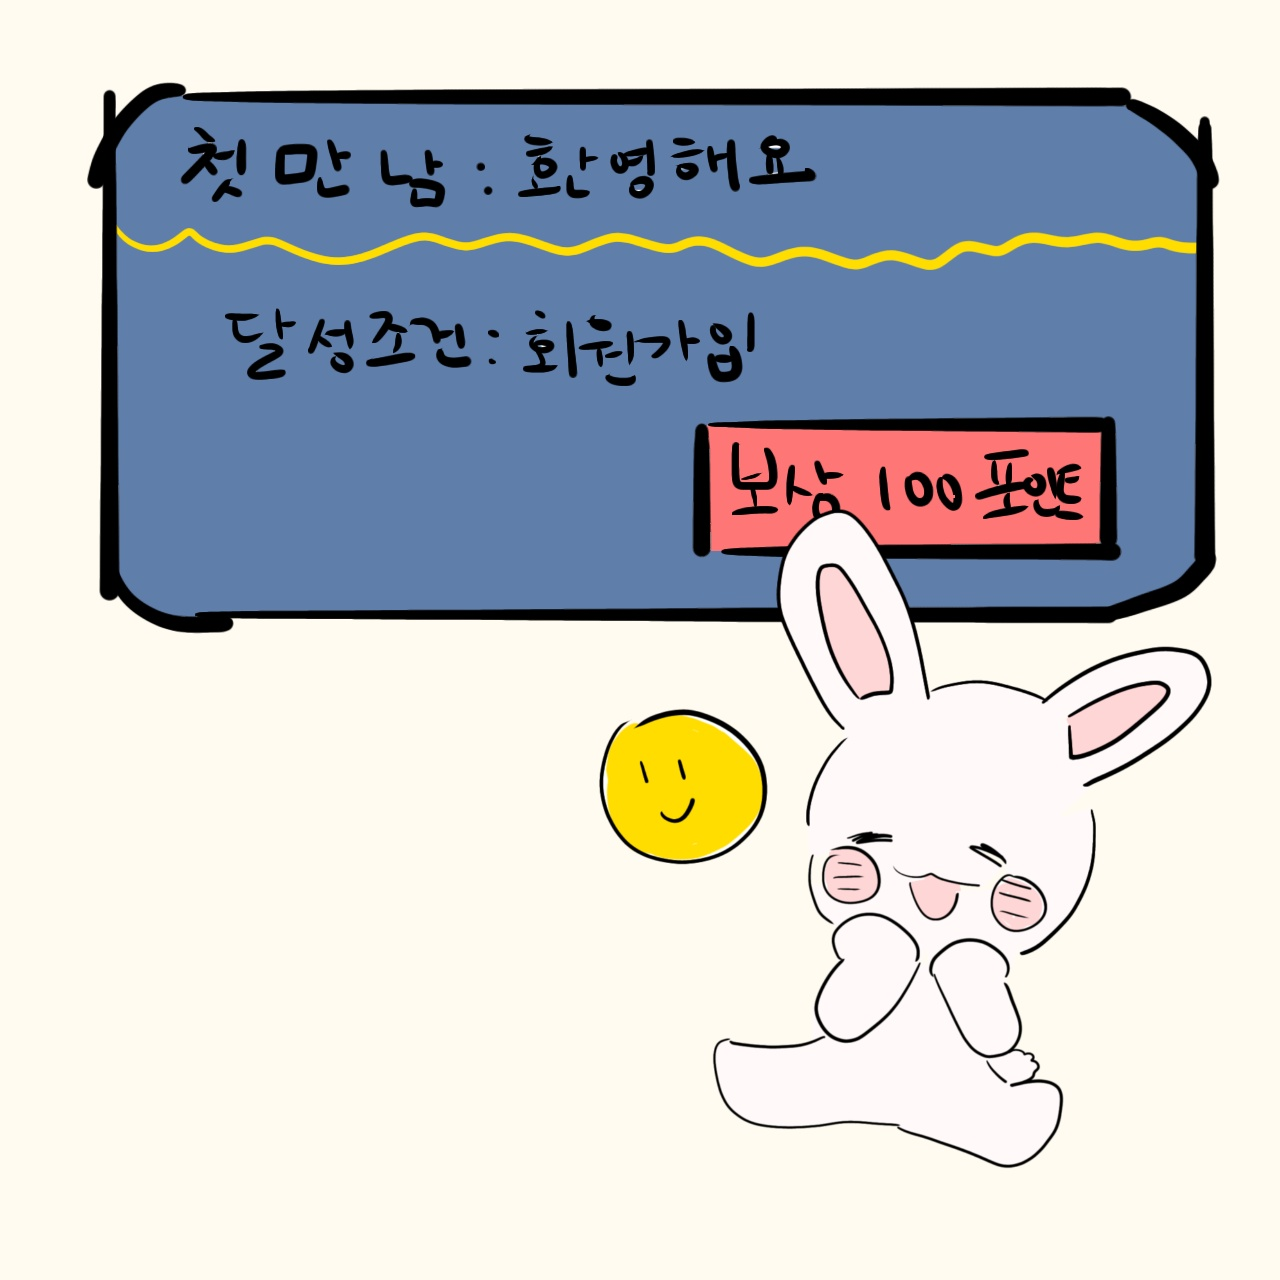
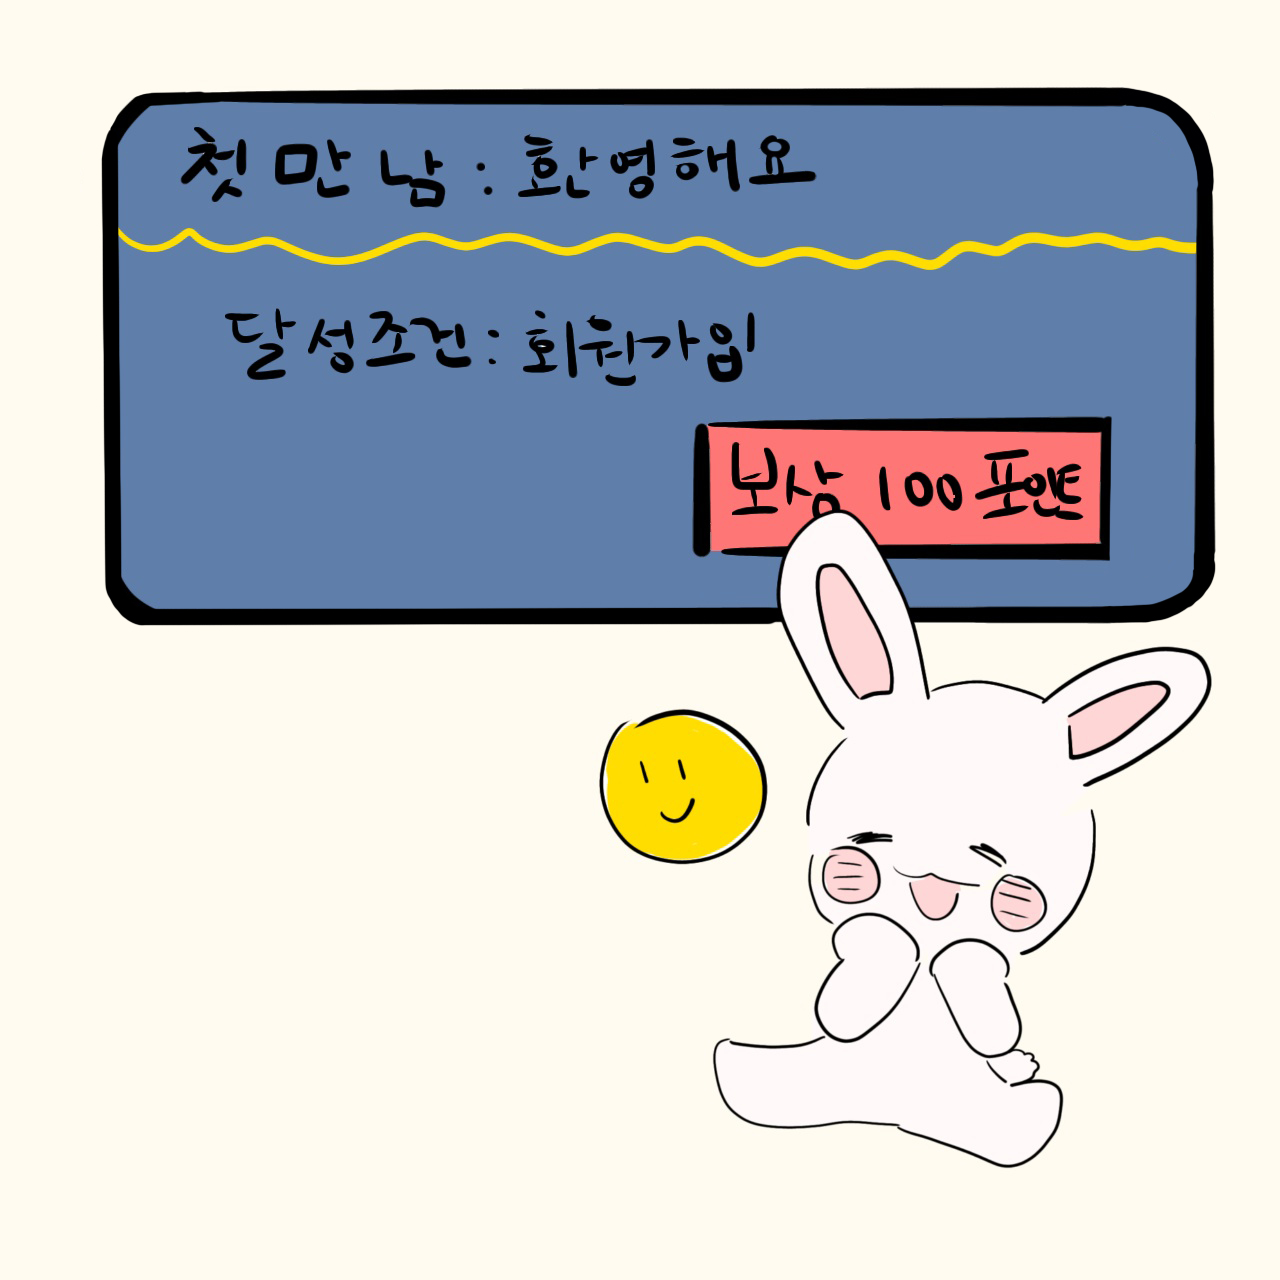
2023.06.28 up

diff --git a/Finmate/public/css/app.css b/Finmate/public/css/app.css
@@ -287,6 +287,10 @@ section .box img {
     height: 100%;
 }
 
+section .box img.str {
+    height: 70%;
+}
+
 section .bottombanner {
     width: 100%;
 }

diff --git a/Finmate/app/Http/Controllers/StaticController.php b/Finmate/app/Http/Controllers/StaticController.php
@@ -17,7 +17,7 @@ class StaticController extends Controller
 
         $current_user_id = auth()->user()->userid;
         if ($current_user_id != $userid) {
-            return redirect('/unauthorized-access'); // 잘못된 접근 페이지로 리다이렉트
+            return redirect('/unauthorized-access');
         }
 
         // 현재 년도

diff --git a/Finmate/resources/views/main.blade.php b/Finmate/resources/views/main.blade.php
@@ -31,7 +31,7 @@
 </section>
 <section>
     <div class="box">
-        <img src="{{ asset('/img/character.png') }}" alt="">
+        <img class="str" src="{{ asset('/img/character.png') }}" alt="">
 
 
     </div>
